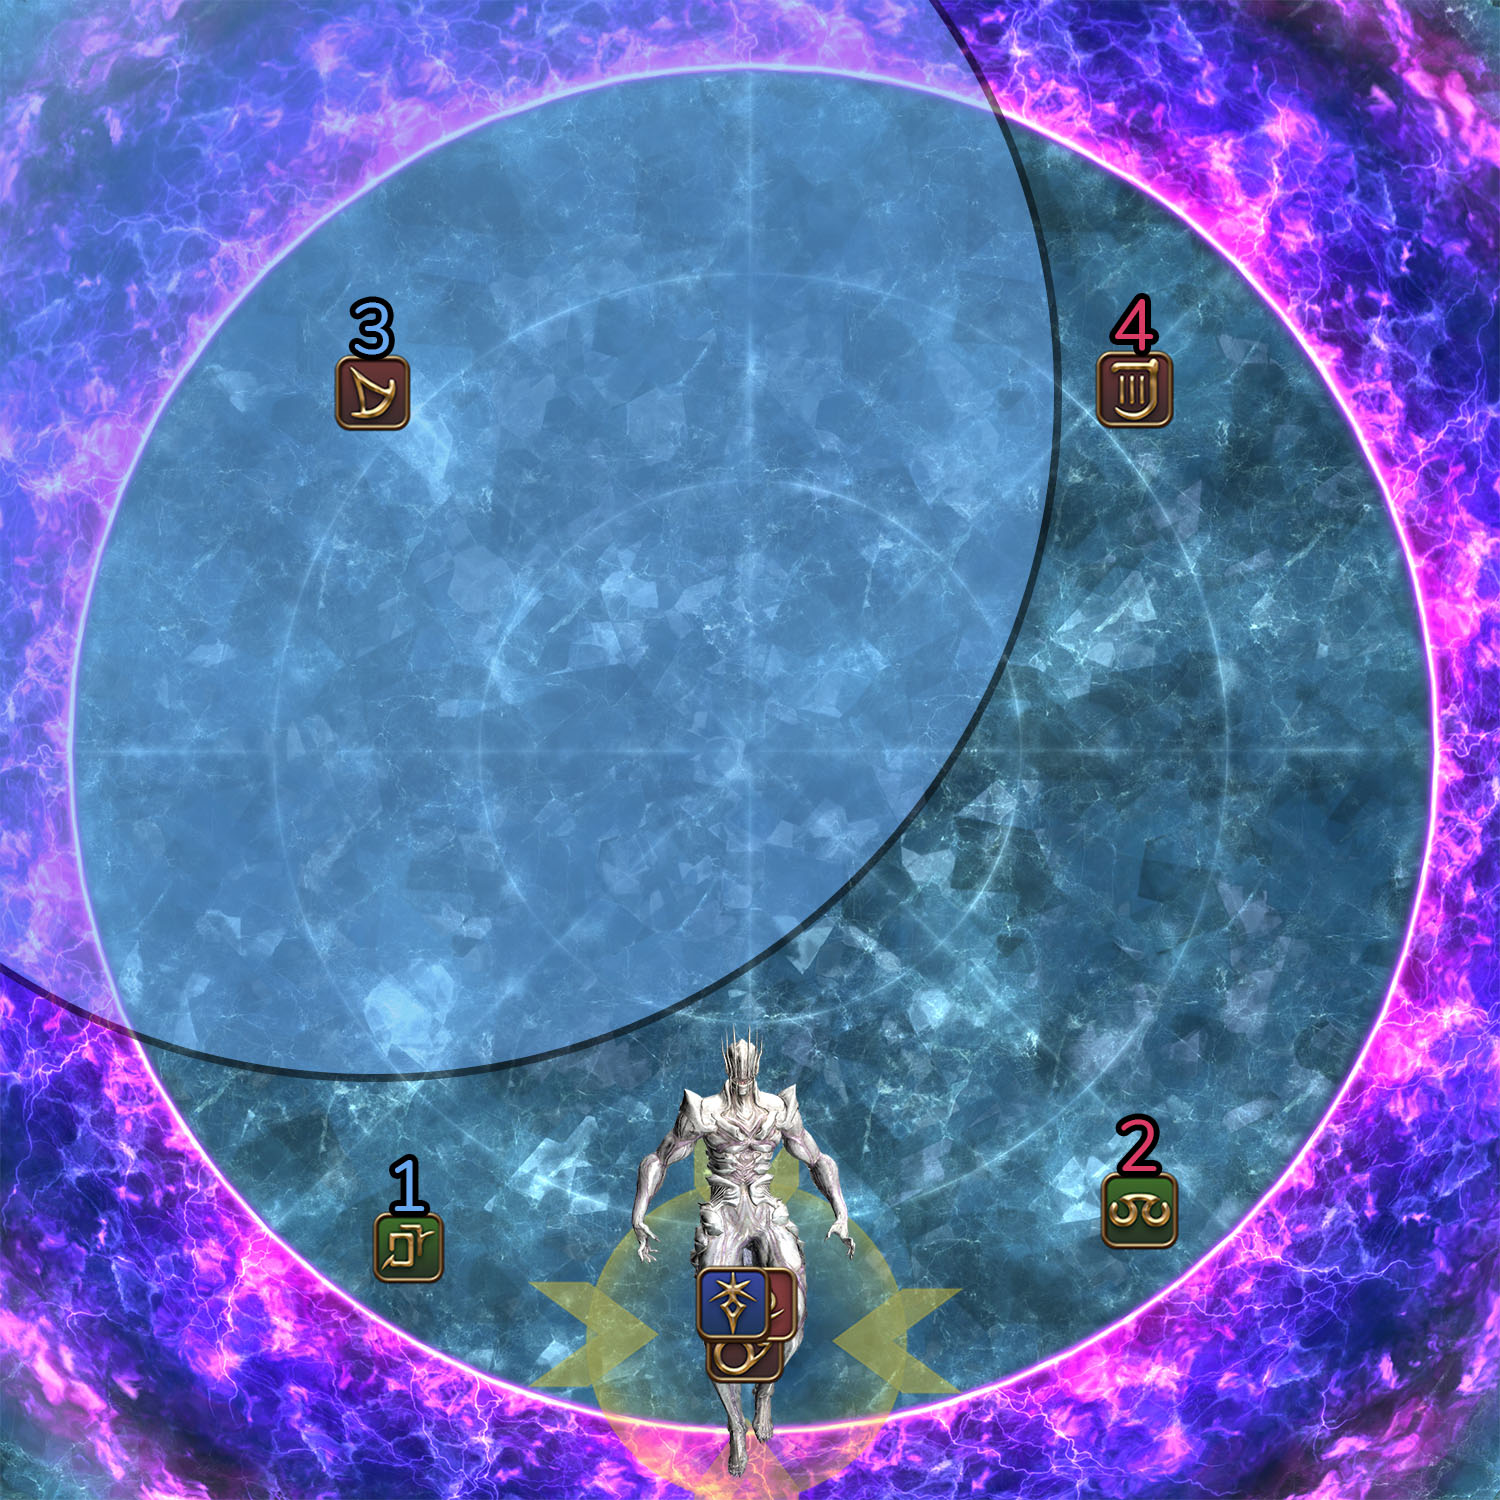
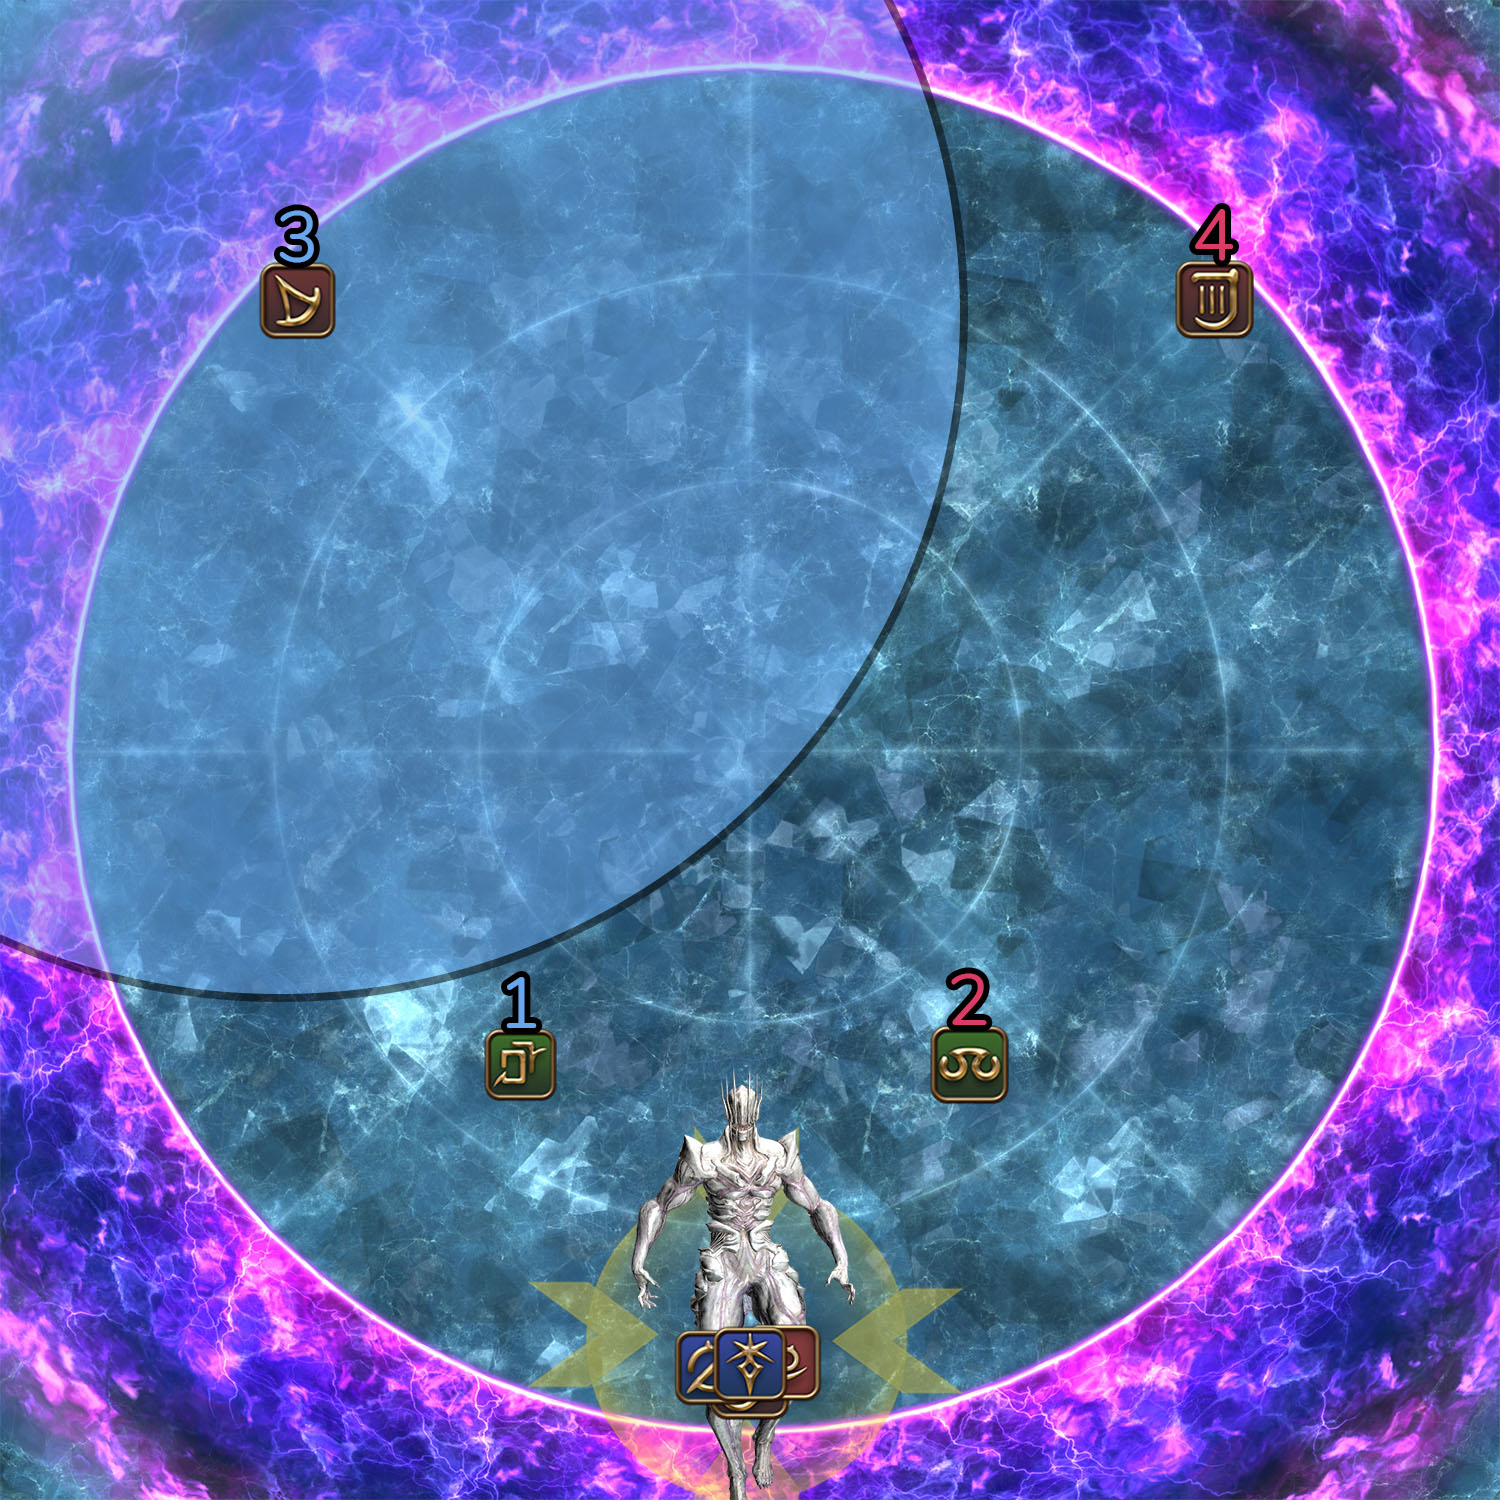
Fix wrong strat pictures/explanations

diff --git a/guides/savages/pandaemonium/P9S.md b/guides/savages/pandaemonium/P9S.md
@@ -2,7 +2,7 @@
 layout: guides
 title: Anabaseios - The Fifth Circle (Savage) | P9S
 imagePath: /assets/img/guides/savages/pandaemonium/P9S/
-slideNumber: 4
+slideNumber: 3
 ---
 
 *Patch: 6.4  
@@ -213,22 +213,12 @@ It is immediately chained with the **Archaic Rockbreaker** lines on the ground a
 
 Afterward, *Kokytos* uses **Glutonny's Augur** before casting **Chimeric Succession**.  
 
-STRAT1 (uptime or just skip it)
-
 Have the Melees inside the boss hitbox and the Ranged outsite to bait the number markers. Since the number are handed out based on distance, Ranged can have fixed position to always ge the same number as shown in the first diagram below.  
-Number 1 will move to the West edge while number 2 will move to the East edge of the arena. Number 3 and 4 will wait North. After 1 resolves, number 3 can move to the North West and after 2 resolves, number 4 can move to the North East. Number 1 and 2 can move South but not too close to the Melee group that is baiting **Firestrike**.  
+Number 1 will stand on the North West of the arena while the player with number 2 will stand on the North East. Number 3 and 4 will wait slightly South of the boss. When the first explosion happens, player number 3 replaces the number 1 and when the second explosion happens, player number 4 replaces the number 2. Number 1 and 2 can move South but not too close to the Melee group that is baiting **Firestrike**.  
 In the meantime, the Melee will stack South to bait the **Front/Rear Firestrike**. Once it resolves, if it's **Front Firestrike** move toward the outside to bait **Swinging Kick** out, otherwise move toward the inside if it's **Rear Firestrike**.
 
 {% assign slideCounter = slideCounter | plus: 1 %}
-{% include slideshow.html imgLink="chimeric1.jpg;chimeric2.jpg;chimeric3.jpg;chimeric4o.jpg;chimeric5o.jpg" imgDesc="Melees inside and Ranged outside. Use these position to always have the same number;First <strong>Icemeld</strong> resolves;Number 1 can move South-ish and 3 can move North West;Number 2 can move South-ish and 4 can moves North East. <strong>Firestrike</strong> happens;Melees must either move toward the outside of the arena if <strong>Front Firestrike</strong> is casted as shown here or move inside if it's <strong>Rear Firestrike</strong> instead;The last <strong>Icemeld</strong> happens along with the <strong>Swinging Kick</strong>" slideNumber=slideCounter %}
-
-STRAT2 (FFA)
-
-The player with number 1 will stand on the NW of the arena while the player with number 2 will stand on the NE. The other players with a number will wait slightly South of the boss. When the first explosion happens, player number 3 replaces the number 1 and when the second explosion happens, player number 4 replaces the number 2.  
-In the meantime, the players without a number will stack South to bait the **Front/Rear Firestrike**. Once it resolves, if it's **Front Firestrike** move toward the outside to bait **Swinging Kick** out, otherwise move toward the inside if it's **Rear Firestrike**.
-
-{% assign slideCounter = slideCounter | plus: 1 %}
-{% include slideshow.html imgLink="chimeric1o.jpg;chimeric2o.jpg;chimeric3o.jpg;chimeric4o.jpg;chimeric5o.jpg" imgDesc="Number 1 on NW, number 2 on NE, number 3 & 4 slightly to the South. The rest bait on South edge;Number 1 and 3 swap position;Number 2 and 4 swap position. <strong>Firestrike</strong> happens;The not number group must either move toward the outside of the arena if <strong>Front Firestrike</strong> is casted as shown here or move inside if it's <strong>Rear Firestrike</strong> instead;The last <strong>Icemeld</strong> happens along with the <strong>Swinging Kick</strong>" slideNumber=slideCounter %}
+{% include slideshow.html imgLink="chimeric1.jpg;chimeric2.jpg;chimeric3.jpg;chimeric4.jpg;chimeric5.jpg" imgDesc="Melees inside and Ranged outside. You can use these positions to always have the same number;First <strong>Icemeld</strong> resolves;Number 1 and 3 swap position. Melees out to bait <strong>Firestrike</strong>;Number 2 and 4 swap position. <strong>Firestrike</strong> happens;Melees must either move toward the outside of the arena if <strong>Front Firestrike</strong> is casted as shown here or move inside if it's <strong>Rear Firestrike</strong> instead;The last <strong>Icemeld</strong> happens along with the <strong>Swinging Kick</strong>" slideNumber=slideCounter %}
 
 *Kokytos* will dash back to the middle and cast a <span style='color:firebrick'><strong>Fire</strong></span>/<span style='color: dodgerblue'><strong>Ice</strong></span> or <span style='color: dodgerblue'><strong>Ice</strong></span>/<span style='color:darkorchid'><strong>Thunder</strong></span> **Two Minds**.
 
